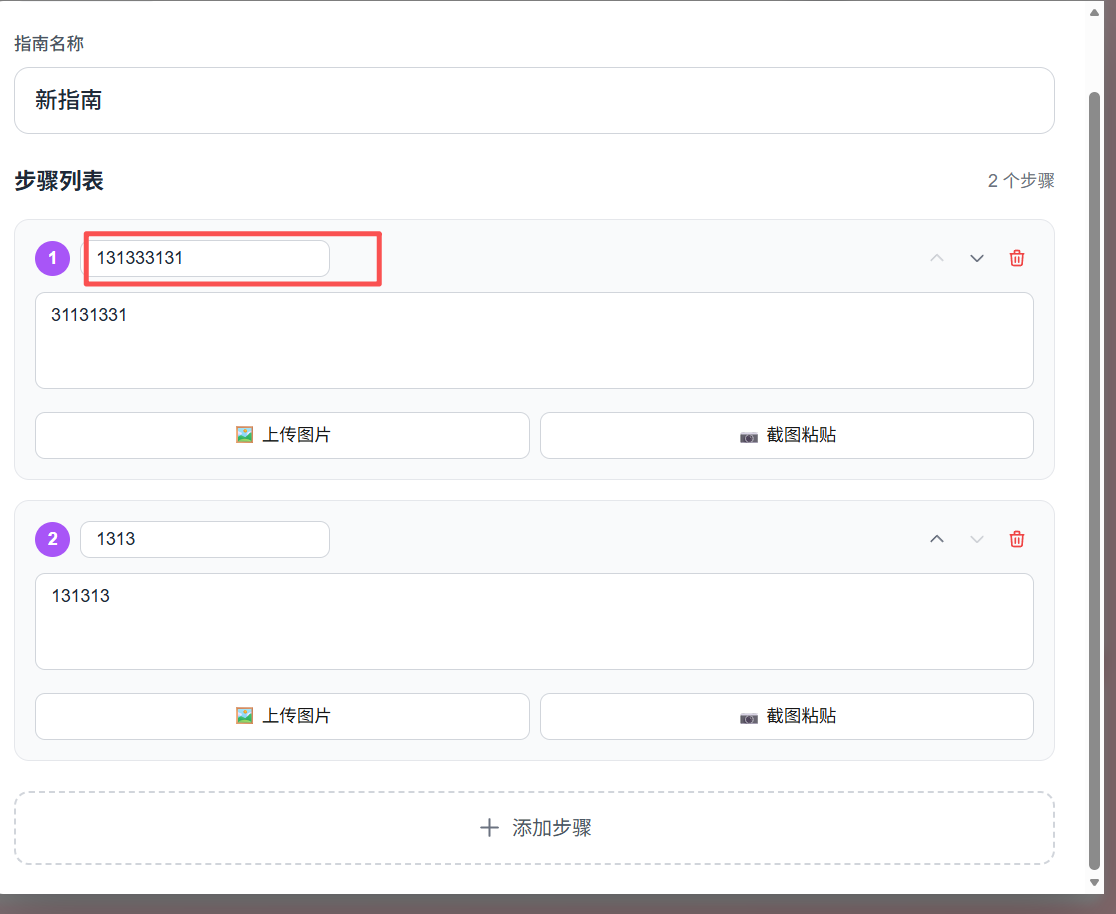
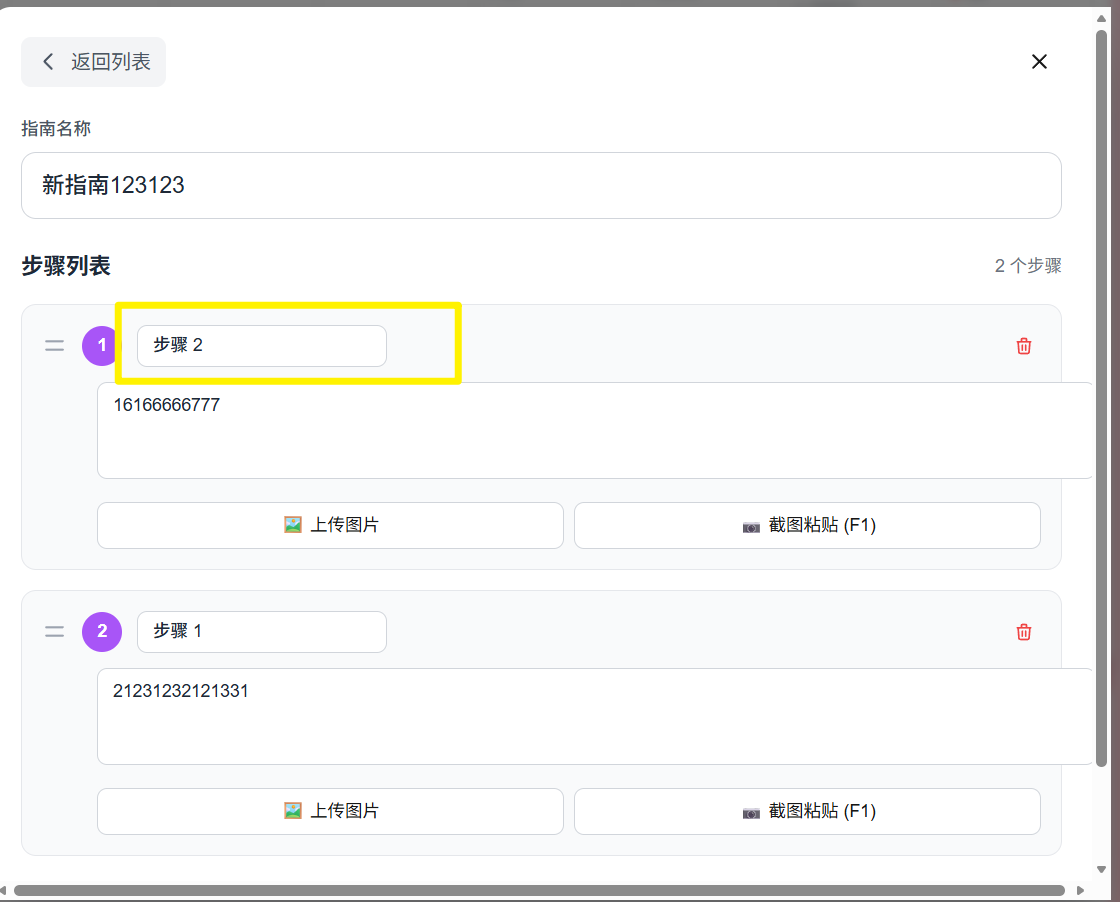
fix: 优化知识库步骤编辑界面文案
- 将"步骤列表"标题改为"指南步骤"
- 新增步骤时默认标题为空，让用户自行输入
- 确认输入框placeholder为"标题"（已正确）

diff --git a/src/main.ts b/src/main.ts
@@ -1554,7 +1554,7 @@ class DailyPlanner {
     if (!this.currentGuide) return;
     const newStep: KnowledgeStep = {
       id: Date.now().toString(),
-      title: `步骤 ${this.currentGuide.steps.length + 1}`,
+      title: '',
       content: '',
       order: this.currentGuide.steps.length
     };
@@ -4929,10 +4929,10 @@ class DailyPlanner {
                    placeholder="输入指南名称...">
           </div>
           
-          <!-- 步骤列表 -->
+          <!-- 指南步骤 -->
           <div class="mb-6">
             <div class="flex items-center justify-between mb-4">
-              <h3 class="text-lg font-semibold ${textClass}">步骤列表</h3>
+              <h3 class="text-lg font-semibold ${textClass}">指南步骤</h3>
               <span class="text-sm ${isDark ? 'text-gray-400' : 'text-gray-500'}">${this.currentGuide.steps.length} 个步骤</span>
             </div>
             
